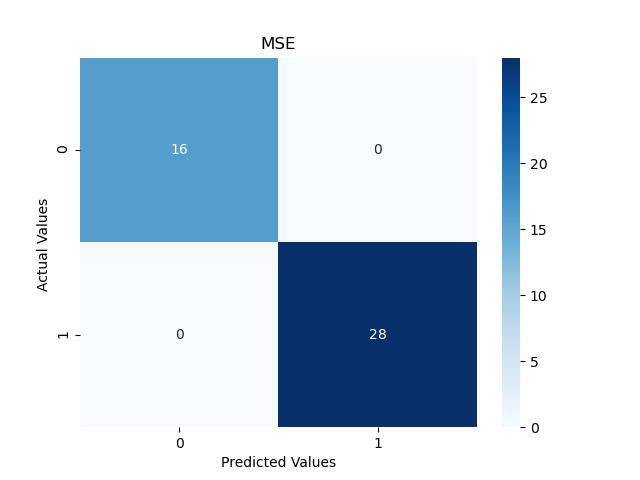
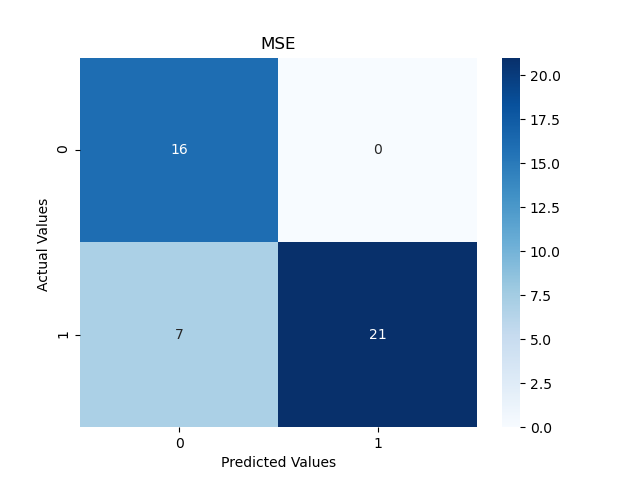
fix pred bug

diff --git a/perceptron.py b/perceptron.py
@@ -3,7 +3,7 @@ import numpy as np
 import pandas as pd
 from statistics import mean
 
-from utils.read_data import read_data
+from utils.read_data import read_data, read_wo_label
 from utils.metrics import metrics, plot_val_cf_matrix
 from utils.Add_feat import Add_feat
 
@@ -27,6 +27,7 @@ parser.add_argument('--normalization', action='store_true', help='use min-max no
 parser.add_argument('--standardization', action='store_true', help='use standardization')
 parser.add_argument ('--feat_reduction', action='store_true', help='drop four least contributing features')
 parser.add_argument ('--extra_feat', action='store_true', help='Create extra features utilizing Date')
+parser.add_argument ('--feat54', action='store_true', help='54 features')
 parser.add_argument('--plot_title', default='', help='title for cf_matrix plot')
 args = parser.parse_args()
 
@@ -39,16 +40,14 @@ def J_value(data, label, w):
         if  L <= 0: J += -L
     return J
 
-def predict(data, label, w):
+def predict(data, w):
     result = []
-    for i in range(len(label)):
-        z = 1 if label.iloc[i] == 1 else -1
+    for i in range(len(data)):
         x = data[i]
-        if  np.dot(w, x) * z > 0:
-            result.append(label.iloc[i])
+        if  np.dot(w, x) > 0:
+            result.append(1)
         else: 
-            pred = 1 if label.iloc[i]==0 else 1
-            result.append(pred)
+            result.append(0)
     return result
 
 def init_train_param(D):
@@ -118,9 +117,12 @@ def main():
     X_test, y_test = read_data('datasets/algerian_fires_test.csv')
     # drop first column ("Date" feature)
     X_tr, X_test = X_tr.iloc[:,1:], X_test.iloc[:,1:]
+    if args.feat54:
+        X_tr = read_wo_label('datasets/train_addfeatall.csv')
+        X_test = read_wo_label('datasets/test_addfeatall.csv')
     if args.feat_reduction:
-        X_tr = X_tr.drop(columns=['Temperature','Ws','BUI','RH'])
-        X_test = X_test.drop(columns=['Temperature','Ws','BUI','RH'])
+        X_tr = X_tr.drop(columns=['Temperature'])
+        X_test = X_test.drop(columns=['Temperature'])
     F1_result, Acc_result, TP, TN, FP, FN = [0]*int(args.M), [0]*int(args.M), [0]*int(args.M), [0]*int(args.M), [0]*int(args.M), [0]*int(args.M)
     if args.normalization or args.standardization:
         if args.normalization: scaler = MinMaxScaler()
@@ -149,11 +151,11 @@ def main():
             w_hat = train(X_tr_prime, y_tr_prime, N, idx, w, it, lr, \
                         not_linearly_separable, correctly_classified, w_vec, J_vec)
             
-            y_val_pred = predict(X_val, y_val, w_hat)
+            y_val_pred = predict(X_val, w_hat)
             F1_result[m], Acc_result[m], TP[m], TN[m], FP[m], FN[m] = metrics(y_val, y_val_pred, "perceptron", work='val')
 
         print("Val F1_score=", mean(F1_result), "Val Accuracy=", mean(Acc_result))
-        plot_val_cf_matrix(y_val, y_val_pred, args.plot_title, mean(TP), mean(TN), mean(FP), mean(FN))
+        #plot_val_cf_matrix(y_val, y_val_pred, args.plot_title, mean(TP), mean(TN), mean(FP), mean(FN))
         print("Training with full dataset!")
         w, it, lr, not_linearly_separable, correctly_classified, w_vec, J_vec \
                                                                     = init_train_param(D)
@@ -162,7 +164,7 @@ def main():
             X_test = scaler.transform(X_test)
         w_hat = train(X_tr, y_tr, N, idx, w, it, lr, \
                         not_linearly_separable, correctly_classified, w_vec, J_vec)
-        y_test_pred = predict(X_test, y_test, w_hat)
+        y_test_pred = predict(X_test, w_hat)
         F1_score, Accuracy = metrics(y_test, y_test_pred, args.plot_title)
         print("Test F1_score=", F1_score, "Test Accuracy=", Accuracy)
 
@@ -185,7 +187,7 @@ def main():
             X_val = scaler.transform(X_val)
         w_hat = train(X_tr_prime, y_tr_prime, N, idx, w, it, lr, \
                         not_linearly_separable, correctly_classified, w_vec, J_vec)
-        y_val_pred = predict(X_val, y_val, w_hat)
+        y_val_pred = predict(X_val, w_hat)
         F1_score, Accuracy = metrics(y_val, y_val_pred, args.plot_title)
         print("Val F1_score=", F1_score, "Val Accuracy=", Accuracy)
 
@@ -199,7 +201,7 @@ def main():
             X_test = scaler.transform(X_test)
         w_hat = train(X_tr, y_tr, N, idx, w, it, lr, \
                         not_linearly_separable, correctly_classified, w_vec, J_vec)
-        y_test_pred = predict(X_test, y_test, w_hat)
+        y_test_pred = predict(X_test, w_hat)
         F1_score, Accuracy = metrics(y_test, y_test_pred, args.plot_title)
         print("Test F1_score=", F1_score, "Test Accuracy=", Accuracy)
 

diff --git a/MSE.py b/MSE.py
@@ -12,6 +12,10 @@ parser = argparse.ArgumentParser()
 parser.add_argument('--M', default=4, help='M-fold cross validation')
 parser.add_argument('--b', default=1, help='MSE clf parameter')
 parser.add_argument('--epoch', default=200, help='# epochs trained')
+parser.add_argument('--standardization', action='store_true', help='use standardization')
+parser.add_argument ('--feat_reduction', action='store_true', help='drop four least contributing features')
+parser.add_argument ('--extra_feat', action='store_true', help='Create extra features utilizing Date')
+parser.add_argument ('--feat54', action='store_true', help='54 features')
 parser.add_argument('--plot_title', default='', help='title for cf_matrix plot')
 args = parser.parse_args()
 
@@ -26,16 +30,14 @@ def J_value(data, label, w):
         J /= N
     return J
 
-def predict(data, label, w):
+def predict(data, w):
     result = []
-    for i in range(len(label)):
-        z = 1 if label.iloc[i] == 1 else -1
+    for i in range(len(data)):
         x = data[i]
-        if  np.dot(w, x) * z > 0:
-            result.append(label.iloc[i])
+        if  np.dot(w, x) > 0:
+            result.append(1)
         else: 
-            pred = 1 if label.iloc[i]==0 else 1
-            result.append(pred)
+            result.append(0)
     return result
 
 def init_train_param(D):
@@ -130,7 +132,7 @@ def main():
         w_hat = train(X_tr_prime, y_tr_prime, N, idx, w, it, lr, \
                     not_linearly_separable, correctly_classified, w_vec, J_vec)
         
-        y_val_pred = predict(X_val, y_val, w_hat)
+        y_val_pred = predict(X_val, w_hat)
         F1_result[m], Acc_result[m], TP[m], TN[m], FP[m], FN[m] = metrics(y_val, y_val_pred, args.plot_title, work='val')
 
     print("Val F1_score=", mean(F1_result), "Val Accuracy=", mean(Acc_result))
@@ -143,7 +145,7 @@ def main():
     X_test = scaler.transform(X_test)
     w_hat = train(X_tr, y_tr, N, idx, w, it, lr, \
                     not_linearly_separable, correctly_classified, w_vec, J_vec)
-    y_test_pred = predict(X_test, y_test, w_hat)
+    y_test_pred = predict(X_test, w_hat)
     F1_score, Accuracy = metrics(y_test, y_test_pred, args.plot_title)
     print("Test F1_score=", F1_score, "Test Accuracy=", Accuracy)
 

diff --git a/utils/read_data.py b/utils/read_data.py
@@ -4,3 +4,8 @@ def read_data(file):
     """Reads a CSV file and returns a data matrix and the labels separatelly"""
     data = pd.read_csv(file)
     return data.iloc[:, :-1], data.iloc[:,-1]
+
+def read_wo_label(file):
+    """Reads a CSV file and returns a data matrix"""
+    data = pd.read_csv(file)
+    return data

diff --git a/README.md b/README.md
@@ -89,10 +89,10 @@
 
 - Technique 3: MSE Classifier (Drop "Date")\
     `python3 MSE.py --plot_title MSE` (b=1 for all data pts)
-    - Val F1-score: 0.9942
-    - Val Accuracy: 0.9891
-    - Test F1-score: 1
-    - Test Accuracy: 1
+    - Val F1-score: 0.79
+    - Val Accuracy: 0.8424
+    - Test F1-score: 0.7568
+    - Test Accuracy: 0.85
 
 - Technique 4: SVM (Drop "Date")\
     `python3 SVM.py --Linear SVM`
